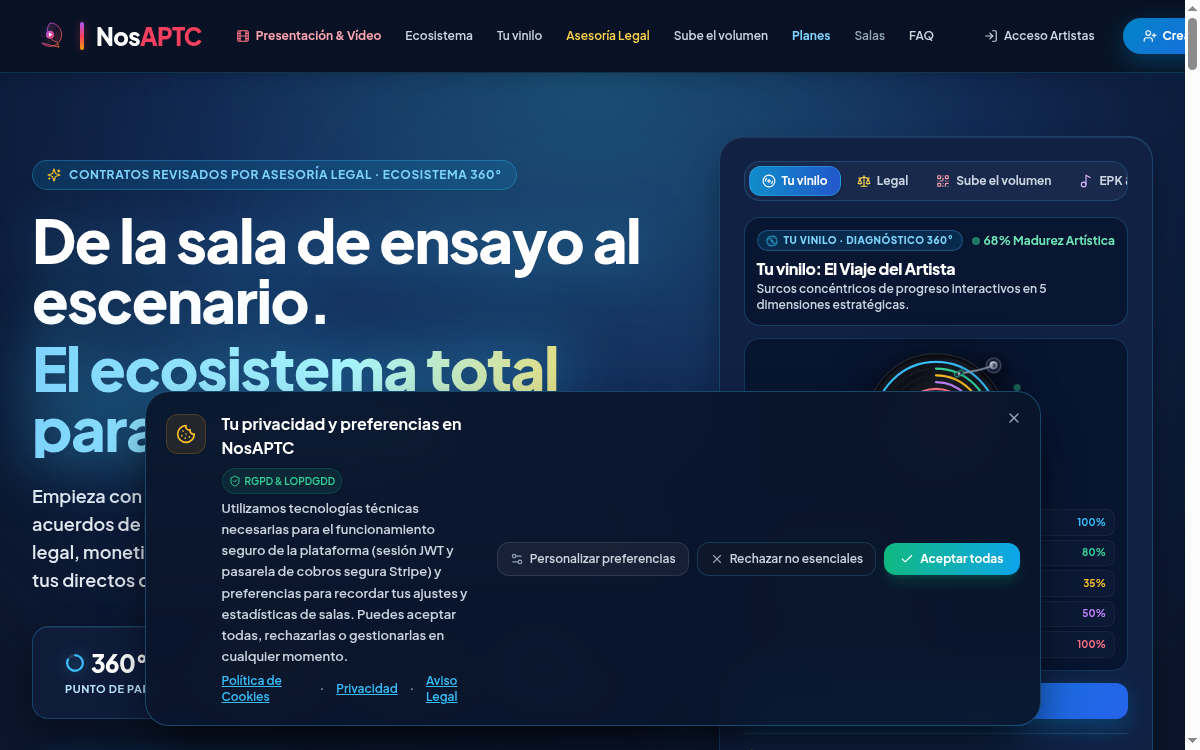
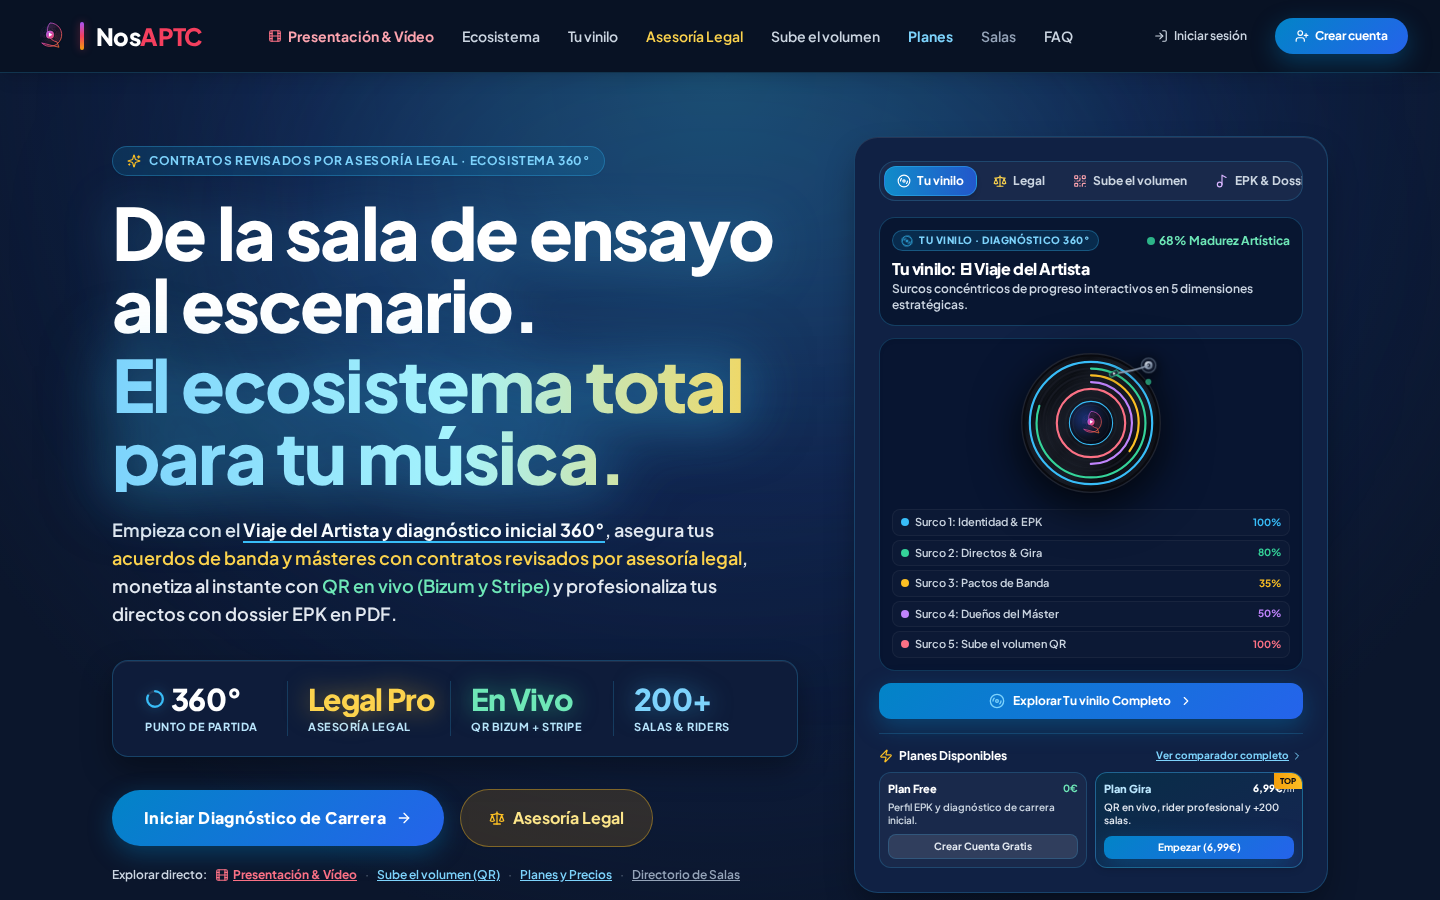
feat(portfolio): update CLOOB to cloobfootball.com, JorgeBarcena to jorgebarcena.es, and refresh NosAPTC screenshot

diff --git a/index.html b/index.html
@@ -502,66 +502,67 @@
             </div>
           </article>
 
-          <!-- 2. Cloob (cloob.com) -->
+          <!-- 2. CLOOB Football (cloobfootball.com) -->
           <article class="portfolio-card" data-category="saas" tabindex="0">
             <div class="portfolio-card-glow"></div>
             <div class="portfolio-card-header">
               <div class="portfolio-type-badge">
                 <span class="badge-dot"></span>
-                <span>Red Social · Comunidad</span>
+                <span>SaaS Deportivo · Football &amp; Flag</span>
               </div>
-              <a href="https://cloob.com" target="_blank" rel="noopener noreferrer" class="portfolio-domain-pill" title="Visitar cloob.com en vivo">
+              <a href="https://cloobfootball.com/" target="_blank" rel="noopener noreferrer" class="portfolio-domain-pill" title="Visitar cloobfootball.com en vivo">
                 <i class="fa-solid fa-globe"></i>
-                <span>cloob.com</span>
+                <span>cloobfootball.com</span>
                 <i class="fa-solid fa-arrow-up-right-from-square external-icon"></i>
               </a>
             </div>
 
-            <a href="https://cloob.com" target="_blank" rel="noopener noreferrer" class="portfolio-thumbnail-wrap" tabindex="-1" aria-hidden="true">
-              <img src="assets/images/portfolio/cloob.png" alt="Captura de pantalla de Cloob (cloob.com)" class="portfolio-thumbnail" loading="lazy" />
+            <a href="https://cloobfootball.com/" target="_blank" rel="noopener noreferrer" class="portfolio-thumbnail-wrap" tabindex="-1" aria-hidden="true">
+              <img src="assets/images/portfolio/cloob.png" alt="Captura de pantalla de CLOOB Football (cloobfootball.com)" class="portfolio-thumbnail" loading="lazy" />
               <div class="portfolio-thumbnail-overlay">
-                <span class="preview-badge"><i class="fa-solid fa-arrow-up-right-from-square"></i> cloob.com</span>
+                <span class="preview-badge"><i class="fa-solid fa-arrow-up-right-from-square"></i> cloobfootball.com</span>
               </div>
             </a>
 
             <div class="portfolio-card-body">
               <div class="portfolio-icon-brand">
-                <i class="fa-solid fa-users-rays"></i>
+                <i class="fa-solid fa-football"></i>
               </div>
               <h3 class="portfolio-title">
-                <a href="https://cloob.com" target="_blank" rel="noopener noreferrer">Cloob</a>
+                <a href="https://cloobfootball.com/" target="_blank" rel="noopener noreferrer">CLOOB Football</a>
               </h3>
               <p class="portfolio-desc">
-                Plataforma social de alta escala orientada a interacción comunitaria, perfiles dinámicos y mensajería fluida. Diseñada con arquitectura de microservicios y persistencia optimizada para flujos intensivos de usuarios concurrentes.
+                Plataforma integral todo en uno para equipos y entrenadores de football americano y flag football: gestión de cobros y cuotas, playbook táctico interactivo, planificación de entrenamientos, partidos, scouting y asistente AI Coach.
               </p>
 
               <div class="portfolio-highlights">
                 <div class="highlight-bullet">
                   <i class="fa-solid fa-check text-cyan"></i>
-                  <span>Arquitectura preparada para alta concurrencia y tráfico masivo</span>
+                  <span>Gestión integral de equipos, calendarios, partidos y scouting</span>
                 </div>
                 <div class="highlight-bullet">
                   <i class="fa-solid fa-check text-cyan"></i>
-                  <span>Interacción en tiempo real y feeds dinámicos de contenido</span>
+                  <span>Playbook táctico interactivo y asistencia inteligente AI Coach</span>
                 </div>
                 <div class="highlight-bullet">
                   <i class="fa-solid fa-check text-cyan"></i>
-                  <span>Caché distribuida en memoria y latencia mínima de respuesta</span>
+                  <span>Módulo de pagos y cobro recurrente de cuotas para clubes</span>
                 </div>
               </div>
 
               <div class="portfolio-tags">
                 <span class="ptag">Node.js</span>
-                <span class="ptag">WebSockets</span>
-                <span class="ptag">Redis</span>
-                <span class="ptag">Microservicios</span>
-                <span class="ptag">High Concurrency</span>
+                <span class="ptag">React</span>
+                <span class="ptag">AI Coach</span>
+                <span class="ptag">Stripe Payments</span>
+                <span class="ptag">Playbook Engine</span>
+                <span class="ptag">SaaS Deportivo</span>
               </div>
             </div>
 
             <div class="portfolio-card-footer">
-              <a href="https://cloob.com" target="_blank" rel="noopener noreferrer" class="btn btn-portfolio-link">
-                <span>Visitar cloob.com</span>
+              <a href="https://cloobfootball.com/" target="_blank" rel="noopener noreferrer" class="btn btn-portfolio-link">
+                <span>Visitar cloobfootball.com</span>
                 <i class="fa-solid fa-arrow-up-right-from-square"></i>
               </a>
             </div>
@@ -632,66 +633,66 @@
             </div>
           </article>
 
-          <!-- 4. Jorge Bárcena — UX/UI (jorgebarcena.com) -->
+          <!-- 4. Jorge Bárcena — Actor e Improvisador (jorgebarcena.es) -->
           <article class="portfolio-card" data-category="media" tabindex="0">
             <div class="portfolio-card-glow"></div>
             <div class="portfolio-card-header">
               <div class="portfolio-type-badge">
                 <span class="badge-dot"></span>
-                <span>Diseño de Producto · UX/UI</span>
+                <span>Web Oficial · Faceta Escénica</span>
               </div>
-              <a href="https://jorgebarcena.com" target="_blank" rel="noopener noreferrer" class="portfolio-domain-pill" title="Visitar jorgebarcena.com en vivo">
+              <a href="https://jorgebarcena.es" target="_blank" rel="noopener noreferrer" class="portfolio-domain-pill" title="Visitar jorgebarcena.es en vivo">
                 <i class="fa-solid fa-globe"></i>
-                <span>jorgebarcena.com</span>
+                <span>jorgebarcena.es</span>
                 <i class="fa-solid fa-arrow-up-right-from-square external-icon"></i>
               </a>
             </div>
 
-            <a href="https://jorgebarcena.com" target="_blank" rel="noopener noreferrer" class="portfolio-thumbnail-wrap" tabindex="-1" aria-hidden="true">
-              <img src="assets/images/portfolio/jorgebarcena.png" alt="Captura de pantalla de Jorge Bárcena UX/UI (jorgebarcena.com)" class="portfolio-thumbnail" loading="lazy" />
+            <a href="https://jorgebarcena.es" target="_blank" rel="noopener noreferrer" class="portfolio-thumbnail-wrap" tabindex="-1" aria-hidden="true">
+              <img src="assets/images/portfolio/jorgebarcena.png" alt="Captura de pantalla de Jorge Bárcena (jorgebarcena.es)" class="portfolio-thumbnail" loading="lazy" />
               <div class="portfolio-thumbnail-overlay">
-                <span class="preview-badge"><i class="fa-solid fa-arrow-up-right-from-square"></i> jorgebarcena.com</span>
+                <span class="preview-badge"><i class="fa-solid fa-arrow-up-right-from-square"></i> jorgebarcena.es</span>
               </div>
             </a>
 
             <div class="portfolio-card-body">
               <div class="portfolio-icon-brand">
-                <i class="fa-solid fa-wand-magic-sparkles"></i>
+                <i class="fa-solid fa-masks-theater"></i>
               </div>
               <h3 class="portfolio-title">
-                <a href="https://jorgebarcena.com" target="_blank" rel="noopener noreferrer">Jorge Bárcena — UX/UI</a>
+                <a href="https://jorgebarcena.es" target="_blank" rel="noopener noreferrer">Jorge Bárcena — Actor</a>
               </h3>
               <p class="portfolio-desc">
-                Portfolio y showcase centrado en diseño de producto digital, arquitectura de información, diseño centrado en el usuario (UCD) y sistemas visuales (Design Systems) creados para maximizar usabilidad, conversión y estética moderna.
+                Web oficial de la trayectoria escénica de Jorge Bárcena como actor e improvisador teatral. Presentación de espectáculos en cartel, videobook profesional en alta definición, bio artística y punto de contacto para proyectos audiovisuales.
               </p>
 
               <div class="portfolio-highlights">
                 <div class="highlight-bullet">
                   <i class="fa-solid fa-check text-cyan"></i>
-                  <span>Metodología de diseño basada en investigación y validación de usuarios</span>
+                  <span>Videobook profesional interactivo y cartelera de espectáculos</span>
                 </div>
                 <div class="highlight-bullet">
                   <i class="fa-solid fa-check text-cyan"></i>
-                  <span>Definición de tokens visuales y sistemas de diseño escalables</span>
+                  <span>Diseño visual inmersivo orientado a directores de casting y agencias</span>
                 </div>
                 <div class="highlight-bullet">
                   <i class="fa-solid fa-check text-cyan"></i>
-                  <span>Auditorías exhaustivas de accesibilidad (WCAG 2.1) e interacción</span>
+                  <span>Carga ultrarrápida, SEO cultural y compatibilidad móvil completa</span>
                 </div>
               </div>
 
               <div class="portfolio-tags">
-                <span class="ptag">UX Research</span>
-                <span class="ptag">UI Design</span>
-                <span class="ptag">Design Systems</span>
-                <span class="ptag">Figma</span>
-                <span class="ptag">WCAG a11y</span>
+                <span class="ptag">Web Oficial</span>
+                <span class="ptag">Videobook</span>
+                <span class="ptag">Improvisación</span>
+                <span class="ptag">Teatro</span>
+                <span class="ptag">Core Web Vitals</span>
               </div>
             </div>
 
             <div class="portfolio-card-footer">
-              <a href="https://jorgebarcena.com" target="_blank" rel="noopener noreferrer" class="btn btn-portfolio-link">
-                <span>Visitar jorgebarcena.com</span>
+              <a href="https://jorgebarcena.es" target="_blank" rel="noopener noreferrer" class="btn btn-portfolio-link">
+                <span>Visitar jorgebarcena.es</span>
                 <i class="fa-solid fa-arrow-up-right-from-square"></i>
               </a>
             </div>
